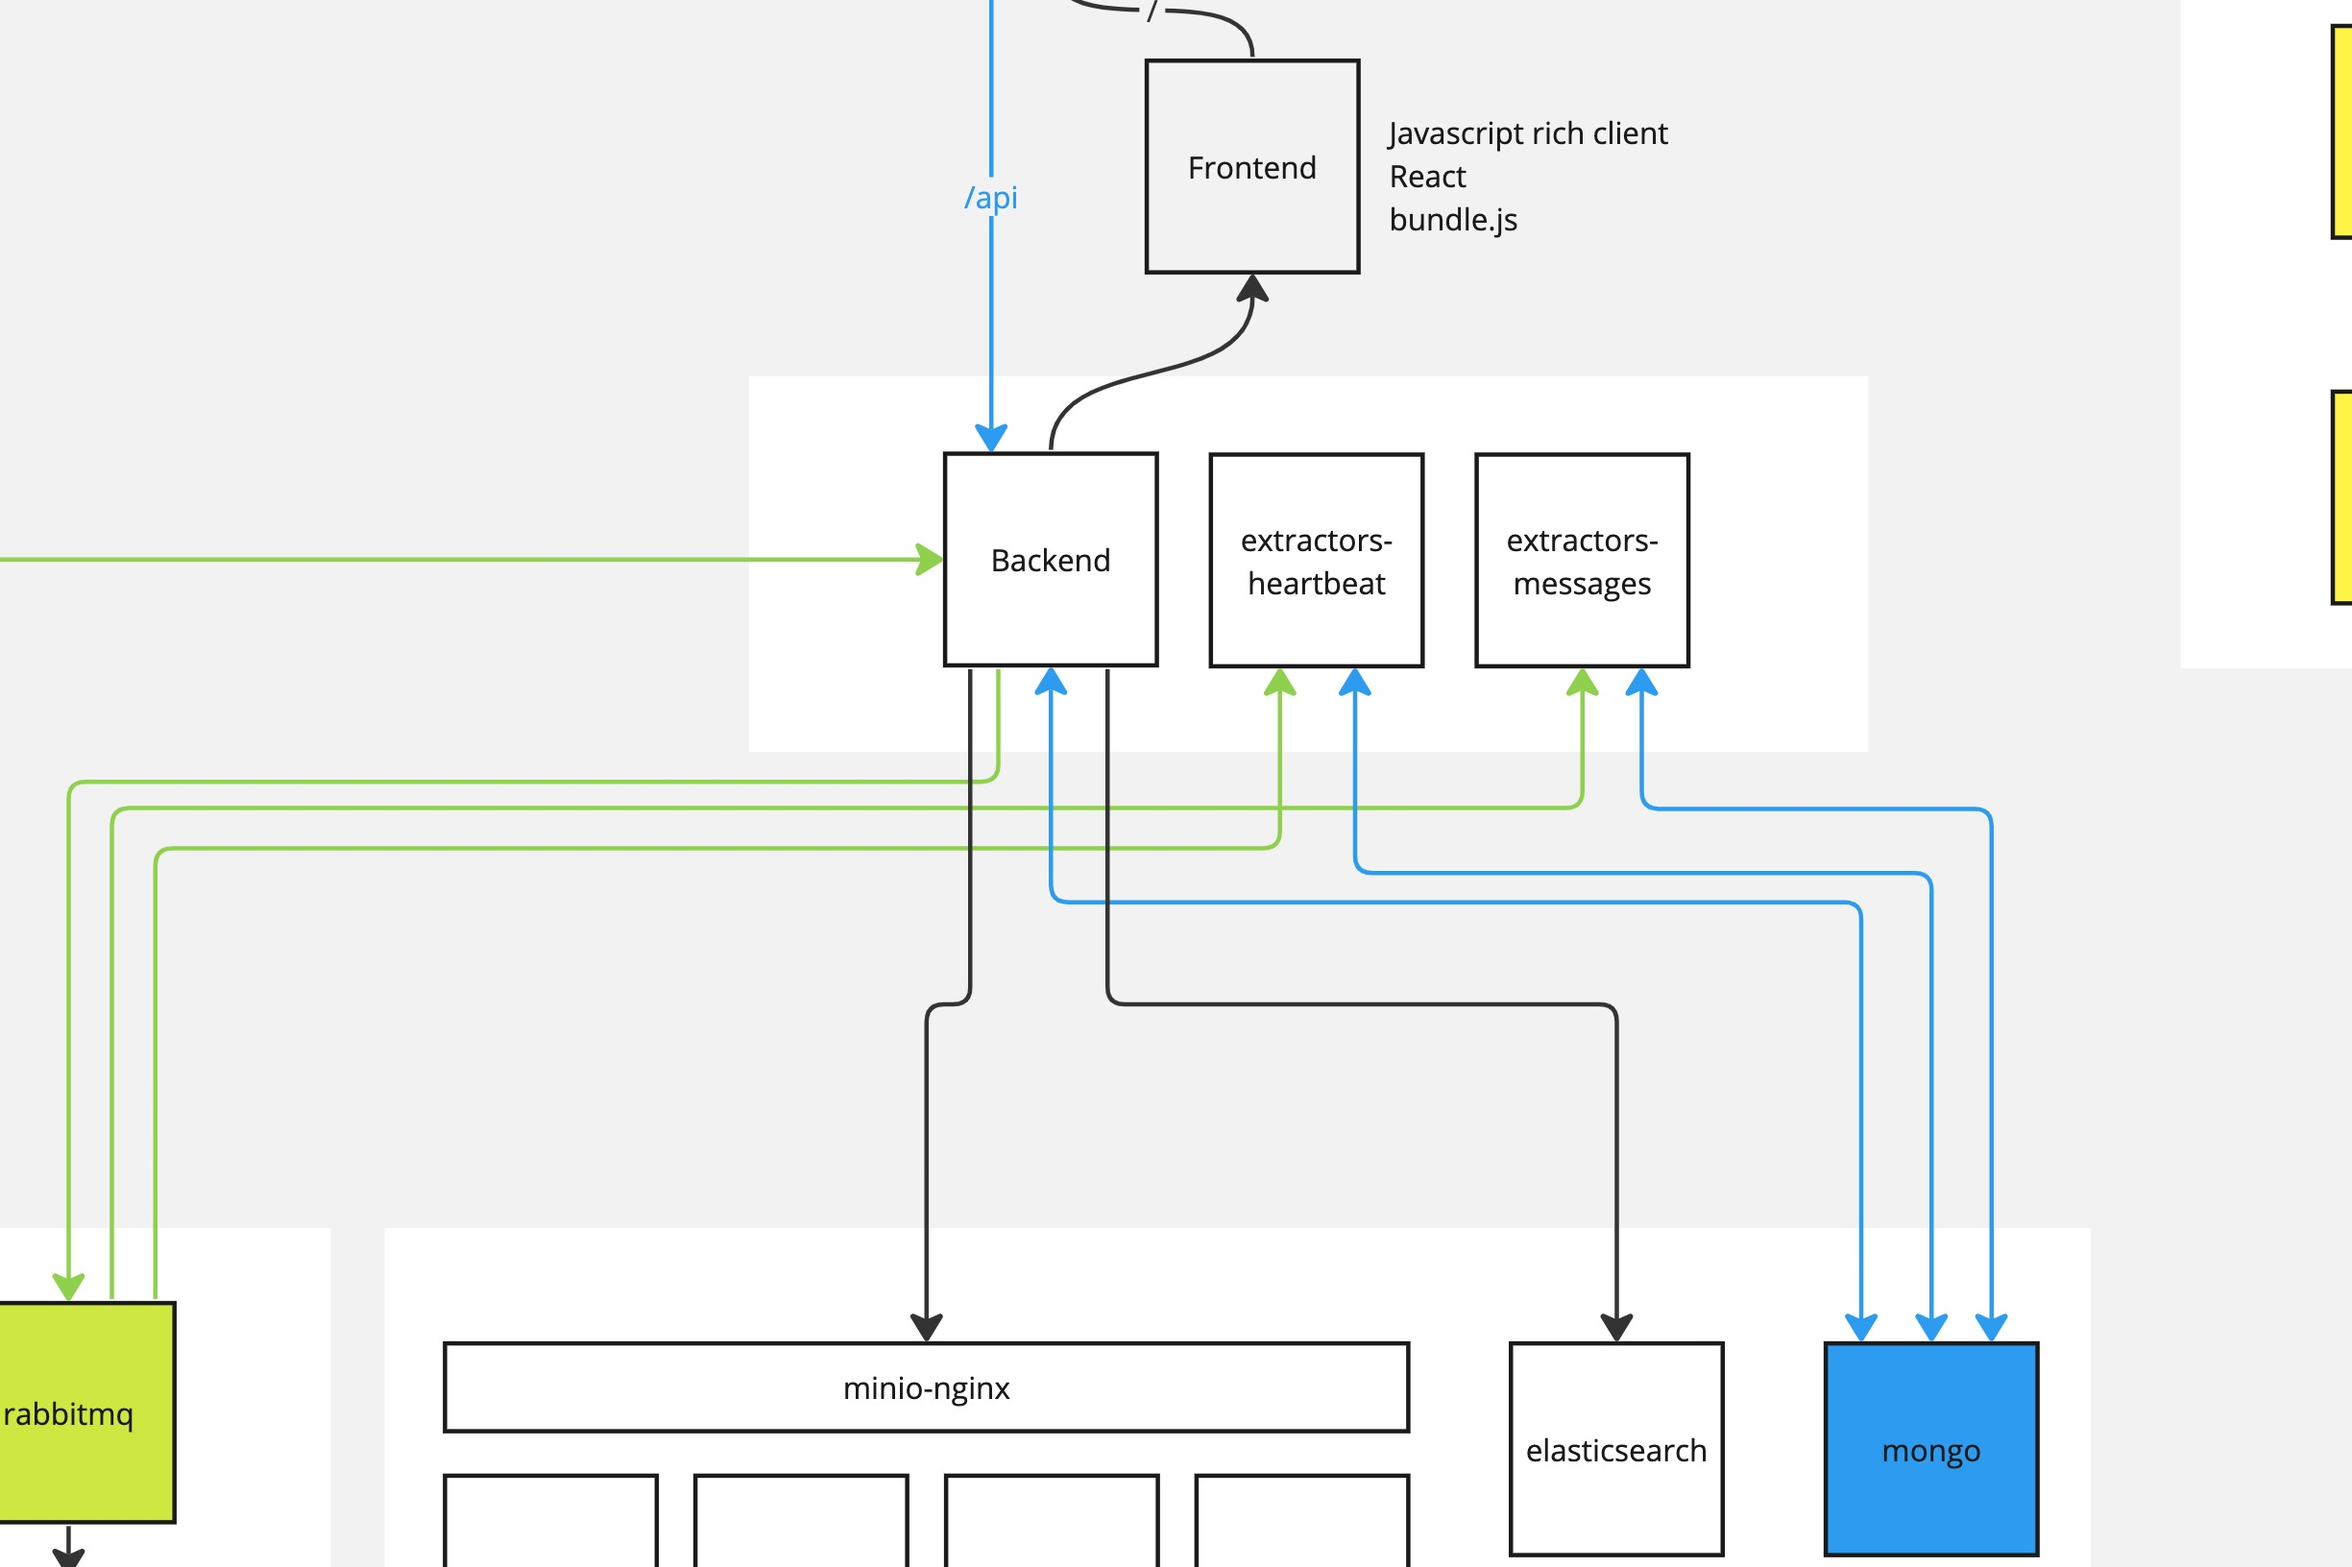
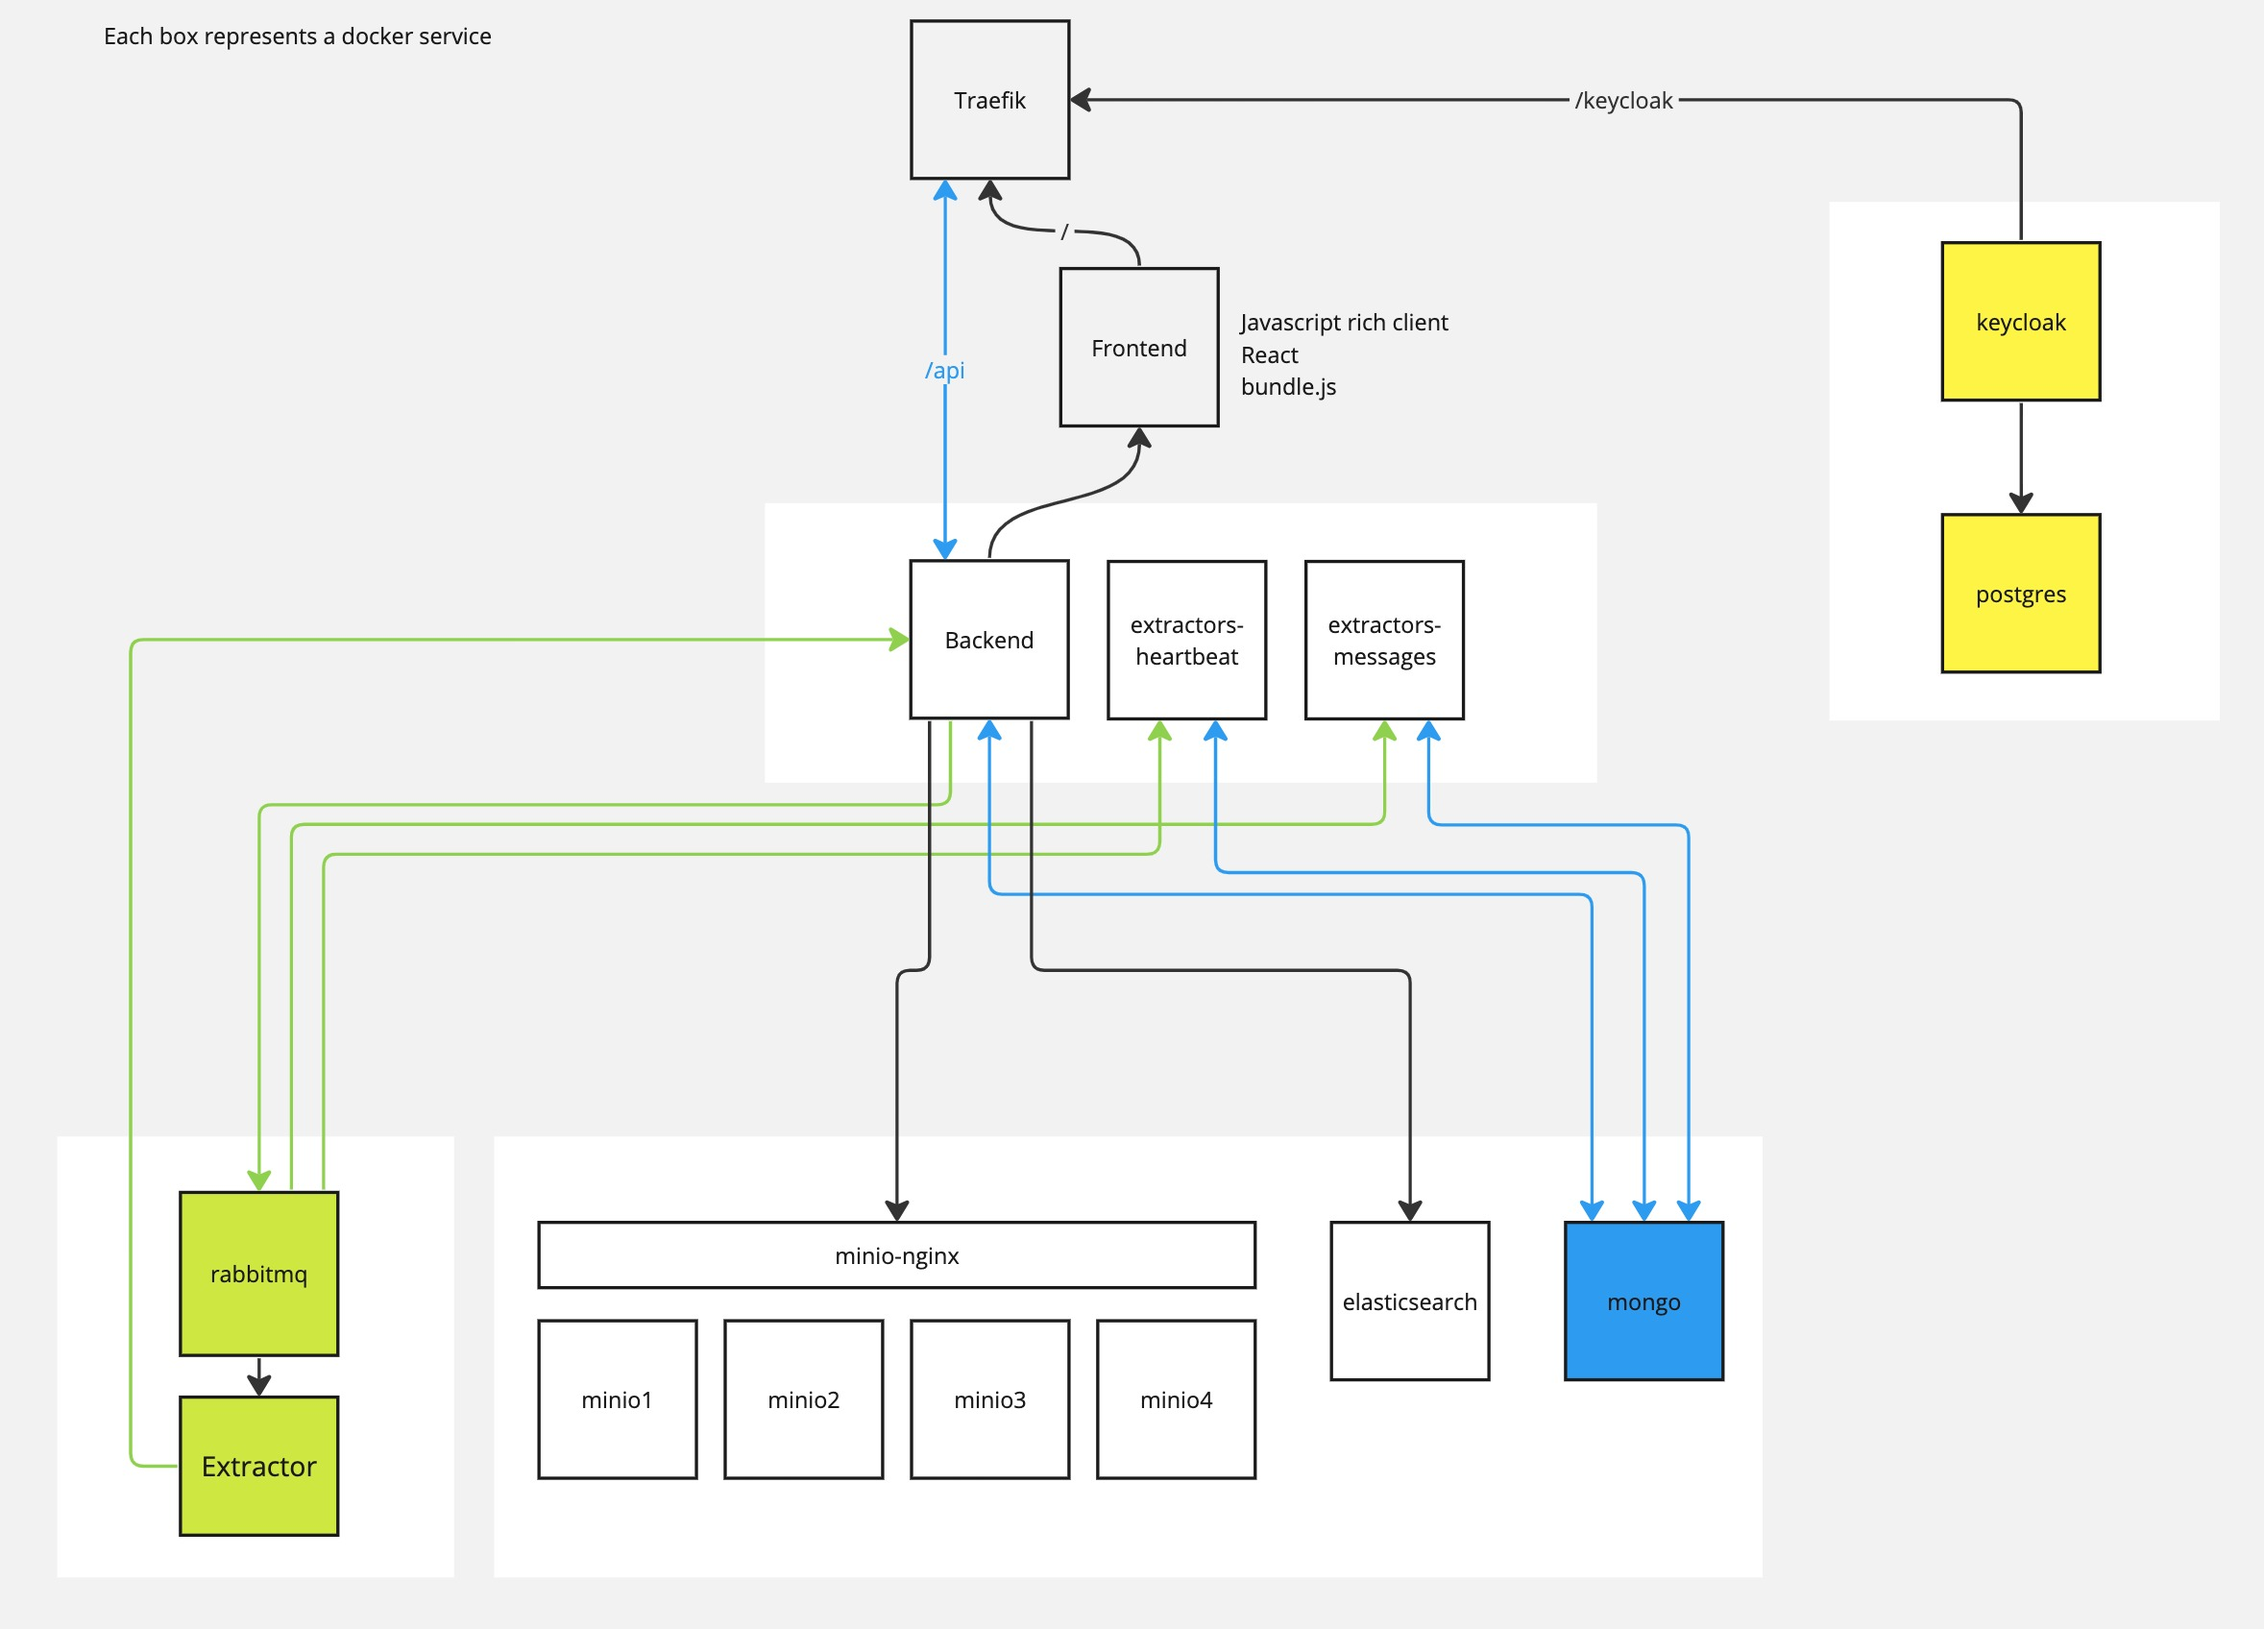
Fixed architecture diagram. Minor phrasing fixes.

diff --git a/docs/source/mongo-fastapi.md b/docs/source/mongo-fastapi.md
@@ -1,22 +1,13 @@
 # MongoDB FastAPI Integration Notes
 
-Mongo ObjectId
-https://github.com/tiangolo/fastapi/issues/1515
+We ended up using [beanie](https://github.com/roman-right/beanie) odm and
+[motor](https://motor.readthedocs.io) to interact with MongoDB.
+Below are links to some resources consulted during the development of this integration.
+Some are not relevant anymore and are here just for reference.
 
-ODM
-https://github.com/art049/odmantic/
-
-pymongo and fastapi
-https://medium.com/fastapi-tutorials/integrating-fastapi-and-mongodb-8ef4f2ca68ad
-
-mongoengine and fastapi
-https://stackoverflow.com/questions/60277170/how-to-convert-mongoengine-class-in-pedantic-basemodel-in-python-fastapi
-
-pydantic and objectid
-https://stackoverflow.com/questions/59503461/how-to-parse-objectid-in-a-pydantic-model
-
-mongoengine and fastapi
-https://stackoverflow.com/questions/60277170/how-to-convert-mongoengine-class-in-pedantic-basemodel-in-python-fastapi
-
-beanie odm
-https://github.com/roman-right/beanie
+* [Mongo ObjectId](https://github.com/tiangolo/fastapi/issues/1515)
+* [ODM](https://github.com/art049/odmantic/)
+* [pymongo and fastapi](https://medium.com/fastapi-tutorials/integrating-fastapi-and-mongodb-8ef4f2ca68ad)
+* [mongoengine and fastapi](https://stackoverflow.com/questions/60277170/how-to-convert-mongoengine-class-in-pedantic-basemodel-in-python-fastapi)
+* [pydantic and objectid](https://stackoverflow.com/questions/59503461/how-to-parse-objectid-in-a-pydantic-model)
+* [mongoengine and fastapi](https://stackoverflow.com/questions/60277170/how-to-convert-mongoengine-class-in-pedantic-basemodel-in-python-fastap)

diff --git a/docs/source/elasticsearch.md b/docs/source/elasticsearch.md
@@ -1,18 +1,18 @@
-# Elasticsearch Integration Notes
+# Elasticsearch
 
-For a brief introduction to elasticsearch, please refer to https://www.elastic.co/guide/en/app-search/current/getting-started.html
+For a brief introduction to Elasticsearch, please take a look [here https://www.elastic.co/guide/en/app-search/current/getting-started.html
 
-For some examples in python, please refer to to https://www.elastic.co/guide/en/elasticsearch/client/python-api/master/examples.html
+For some examples in Python, please refer to https://www.elastic.co/guide/en/elasticsearch/client/python-api/master/examples.html
 
-We are running elasticsearch inside docker at port 9200. Once the elasticsearch docker container is up and running, 
-you should be able to connect to http://localhost:9200 and see something like below
+We are running Elasticsearch inside Docker at port 9200. Once the elasticsearch docker container is up and running, 
+you should be able to connect to http://localhost:9200 and see something like below:
 
 ![Connect to elasticsearch](img/elasticsearch1.png)
 
-If you see error in elasticsearch docker container and that is related to heap memory, try upgrading memory to 
+If you see error in Elasticsearch docker container and that is related to heap memory, try upgrading memory to 
 8Gb in docker setting.
  
-For all the implemented elasticsearch APIs, please refere to the code in backend/app/elasticsearch/connect.py 
+For all the implemented elasticsearch APIs, please refer to the code in `backend/app/elasticsearch/connect.py`. 
 
 ## Common Commands
 

diff --git a/docs/source/architecture.md b/docs/source/architecture.md
@@ -2,5 +2,8 @@
 
 Clowder v2 follows the architecture of v1, we the additional split of the server side into
 multiple standalone containers.
+Each box below is a docker service as defined in `docker-compose.yml`.
+Boxes are grouped logically into backend, keycloak, extractors, database boxes.
+Lines show interactions between containers over the docker network.
 
 ![Clowder v2 architecture](img/architecture.jpg)

diff --git a/docs/source/dev-get-started.md b/docs/source/dev-get-started.md
@@ -1,4 +1,4 @@
-# Developers Getting Started
+# Getting Started
 
 The core app is divided into two modules: backend and frontend. The frontend module is a standalone [React](https://react.dev/) 
 application and the backend, a  standalone [FastAPI](https://fastapi.tiangolo.com/lo/) web API. We leverage [MongoDB](https://www.mongodb.com/), [RabbitMQ](https://www.rabbitmq.com/),

diff --git a/docs/source/pycharm.md b/docs/source/pycharm.md
@@ -1,4 +1,4 @@
-### How to setup pycharm to work with Clowder V2
+# Pycharm Setup
 
 From the main menu select Run -> Edit Configurations...
 
